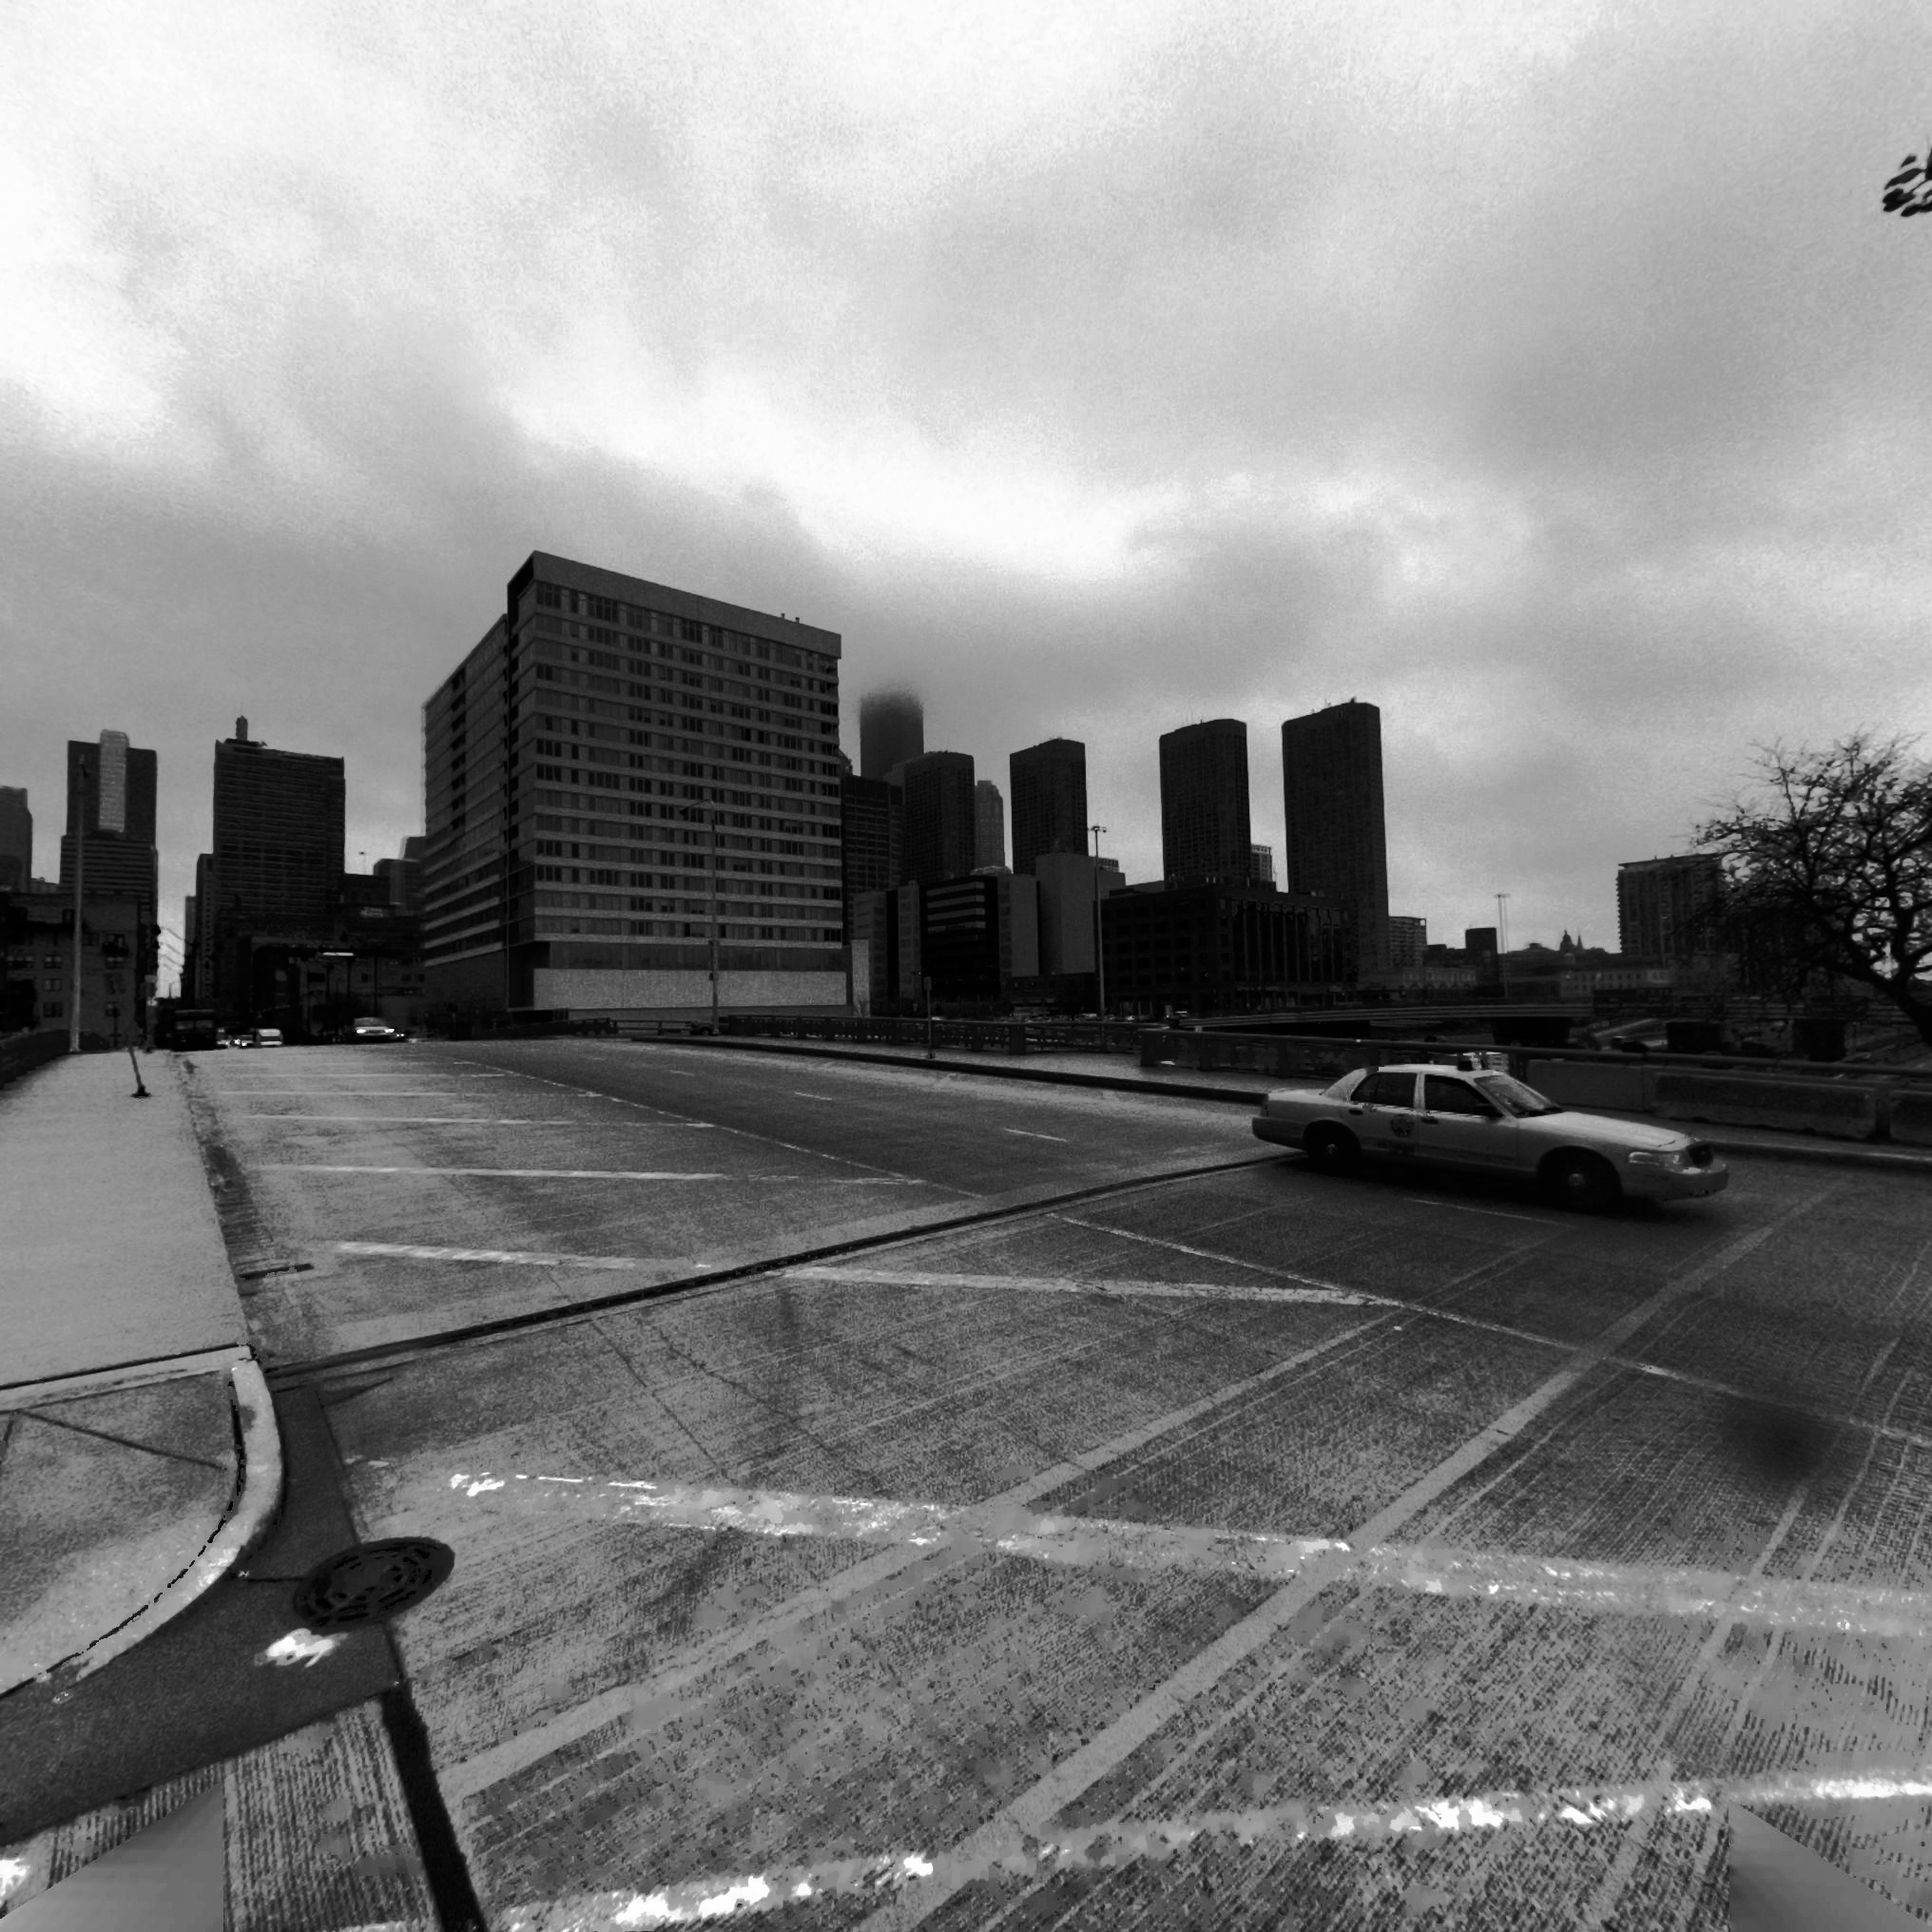
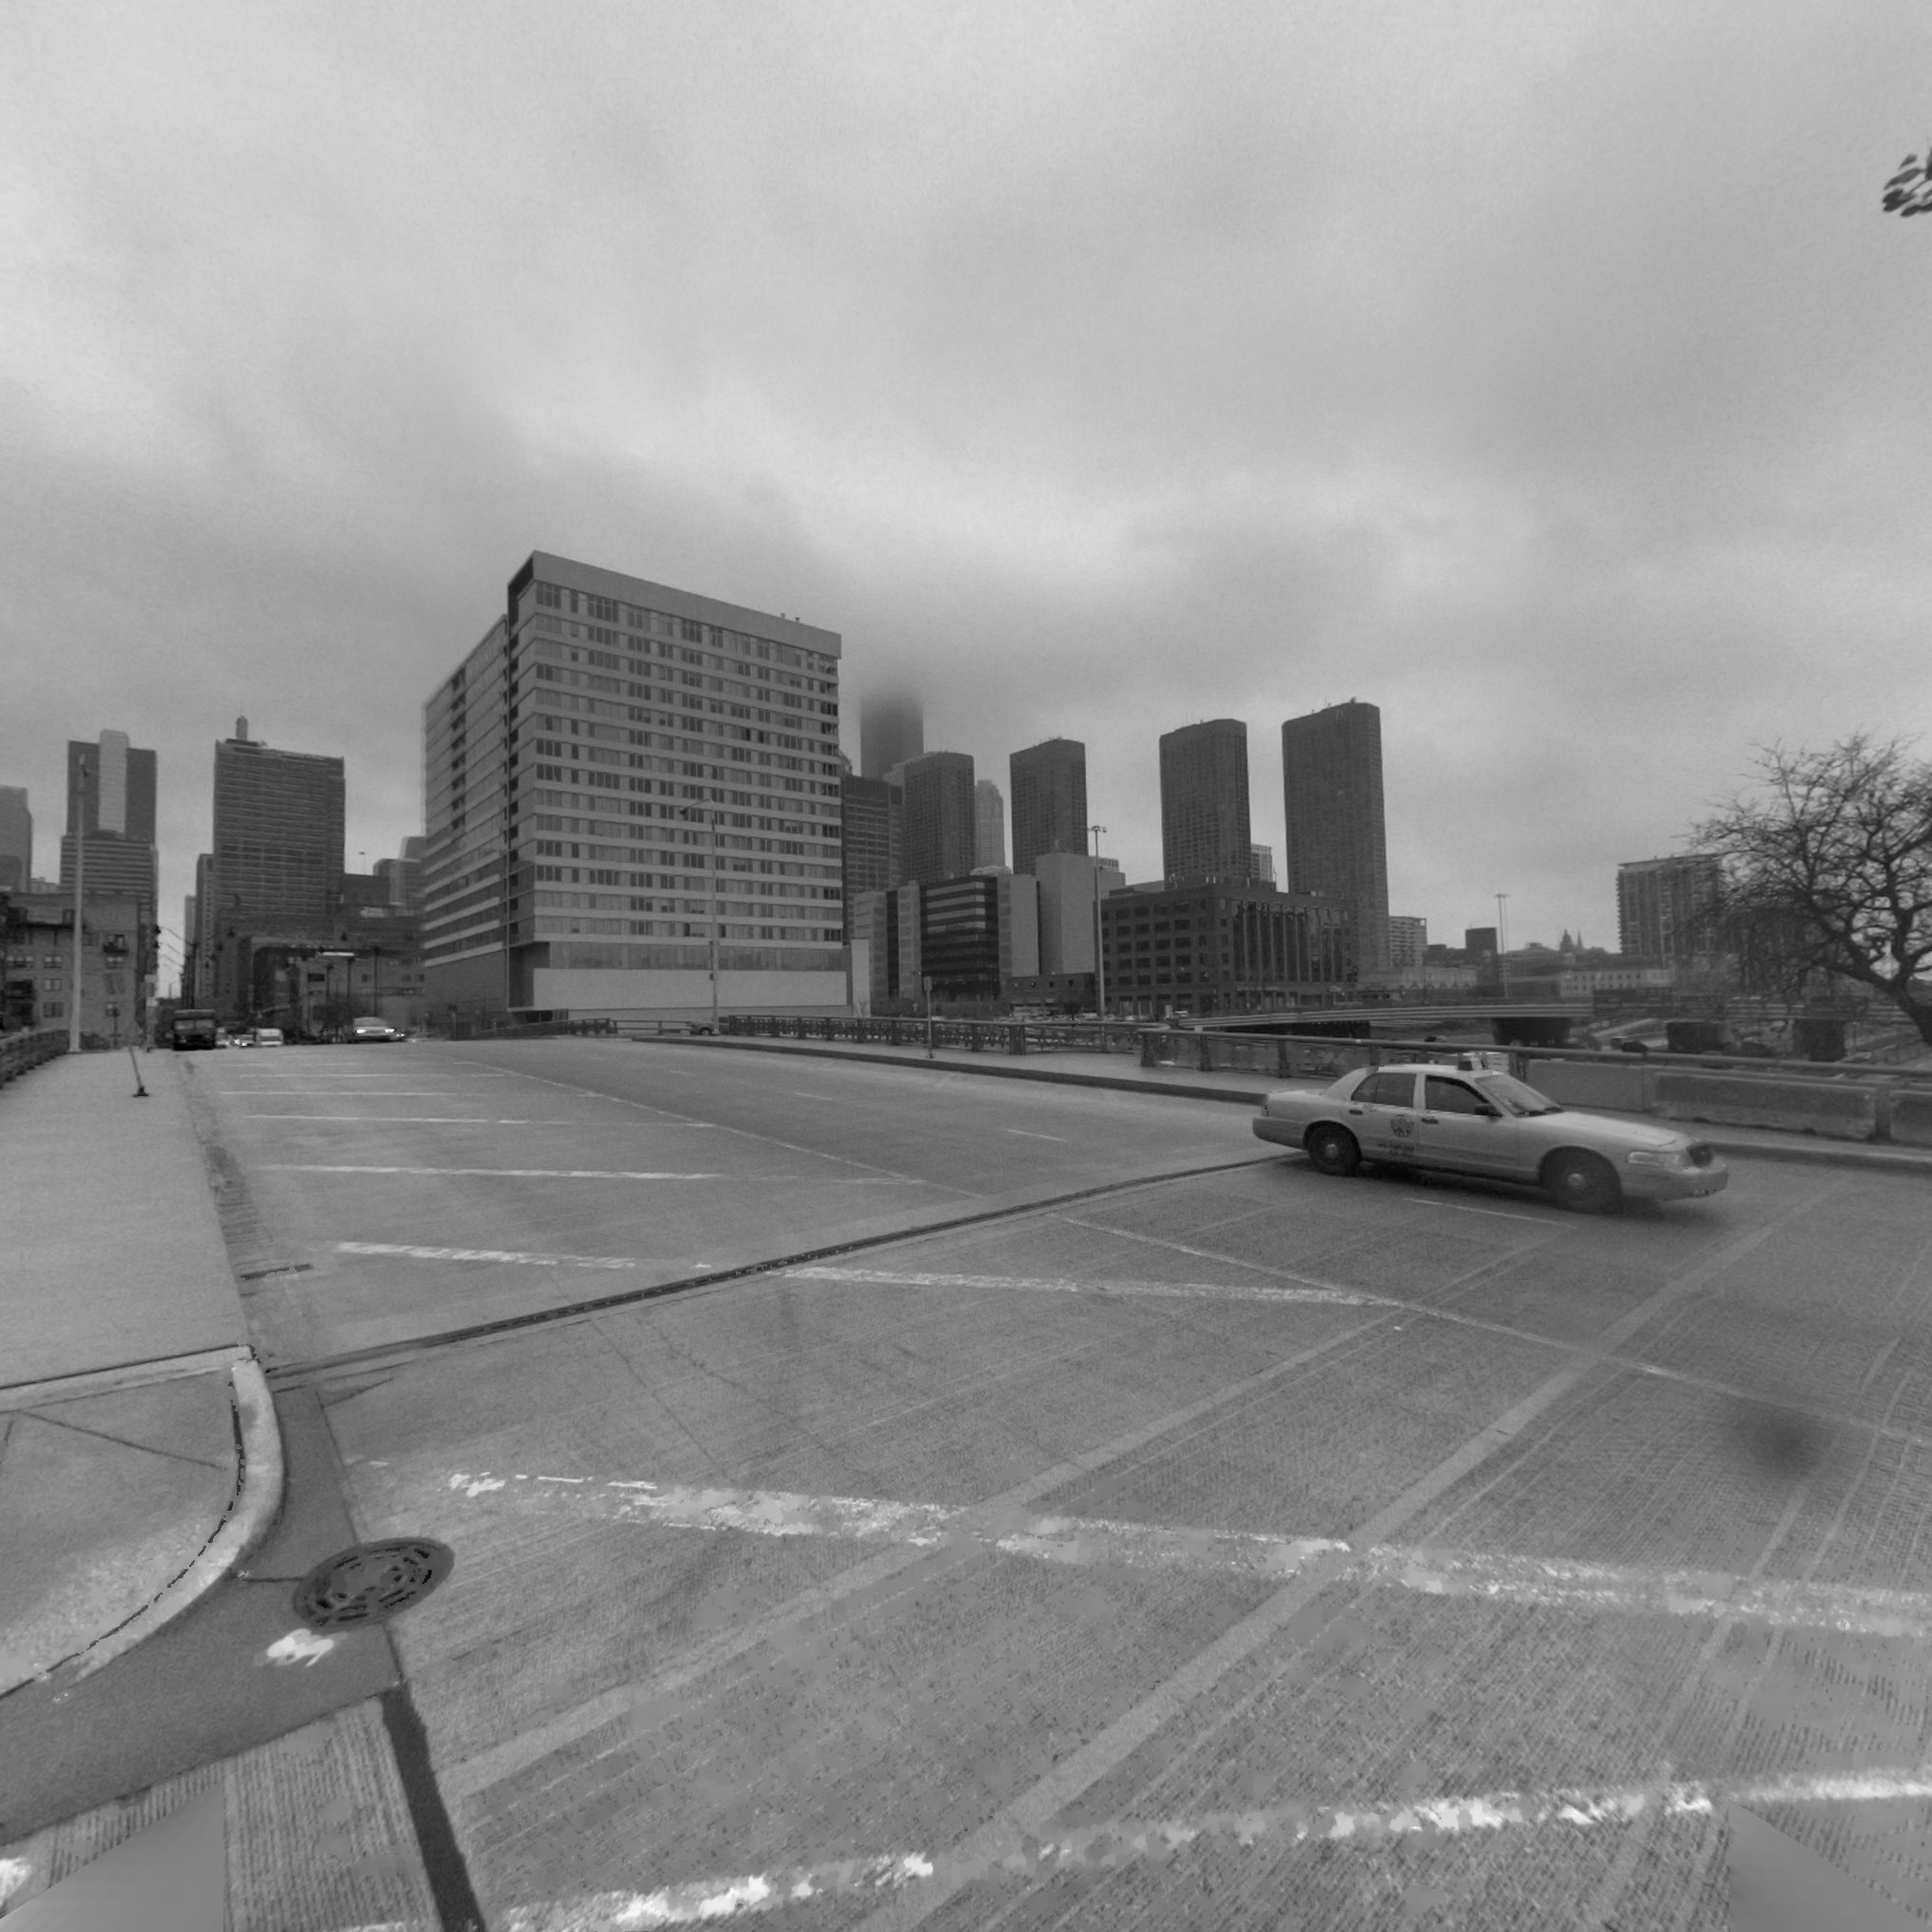
smear detection

diff --git a/img_process.py b/img_process.py
@@ -2,6 +2,8 @@ from PIL import Image
 import cv2
 import numpy as np
 import os
+import sys
+import shutil
 
 def greyscale(img_file):
     img = Image.open(img_file).convert('LA')
@@ -32,17 +34,98 @@ def histogram_equalization(img_file):
     cv2.imwrite( out_path, img_output );
     return out_path
 
+def blur(img_file):
+    img = cv2.imread(img_file)
+    blur_img = cv2.GaussianBlur(img,(21,21),0)
+    out_path = './output/blur.png'
+    cv2.imwrite( out_path, blur_img )
+    return out_path
+
+def threshold(img_file):
+    img = cv2.imread(img_file)
+    threshold_img = cv2.threshold(img, 127, 255, cv2.THRESH_BINARY)[1]
+    out_path = './output/threshold.png'
+    cv2.imwrite( out_path, threshold_img )
+    return out_path
+
 def image_mean(dir):
     img_paths = [];
     for image in os.listdir(dir):
+        if (image == '.DS_Store'): continue
         img_paths.append(os.path.join(dir,image))
 
     avg_img = cv2.imread(img_paths[0]) * (1/len(img_paths))
     for image in img_paths[1:]:
         avg_img = cv2.add(avg_img, cv2.imread(image) * (1/len(img_paths)))
-    out_path = './output/avg_img.png'
-    cv2.imwrite( out_path, avg_img )
+    return avg_img
+
+def pre_process(dir):
+    img_paths = [];
+    for image in os.listdir(dir):
+        if (image == '.DS_Store'): continue
+        img_paths.append(os.path.join(dir,image))
+
+    # CREATE PARENT DIRECTORY FOR PRE-PROCESSED IMAGES
+    out_path = './pre_processed_images/'
+    if os.path.exists(out_path):
+        shutil.rmtree(out_path)
+    os.mkdir(out_path)
+
+    # SORT
+    img_paths.sort()
+
+    # CREATE DIRECTORIES FOR BINS
+    total_num_imgs = len(img_paths)
+    num_imgs_per_bin = 100
+    num_bins = int(total_num_imgs / num_imgs_per_bin)
+    curr_image_index = 0
+
+    dir_tokens = dir.split("/")
+    dir_name = dir_tokens[-2]
+    for i in range(num_bins):
+        bin_path = out_path + dir_name + "_" + "bin_" + str(i+1) + "/"
+        os.mkdir(bin_path)
+        curr_num_imgs = 0
+        while (curr_num_imgs < num_imgs_per_bin or (i == num_bins-1 and curr_image_index < len(img_paths))):
+            img = cv2.imread(img_paths[curr_image_index])
+            # HIST EQ
+            img_yuv = cv2.cvtColor(img, cv2.COLOR_BGR2YUV)
+            img_yuv[:,:,0] = cv2.equalizeHist(img_yuv[:,:,0])
+            hist_output = cv2.cvtColor(img_yuv, cv2.COLOR_YUV2BGR)
+            # GREYSCALE
+            greyscale_output = cv2.cvtColor(hist_output, cv2.COLOR_BGR2GRAY)
+            # GAUSISAN BLUR
+            blur_output = cv2.GaussianBlur(greyscale_output,(21,21),0)
+            # ADAPTIVE THRESHOLD
+            adaptive_threshold = cv2.adaptiveThreshold(blur_output, 255, cv2.ADAPTIVE_THRESH_MEAN_C, cv2.THRESH_BINARY, 105, 10)
+            # SAVE
+            cv2.imwrite( bin_path + img_paths[curr_image_index].split("/")[1], adaptive_threshold )
+
+            curr_num_imgs+=1
+            curr_image_index+=1
     return out_path
+
+def process(dir):
+    out_path = './processed_output/'
+    if os.path.exists(out_path):
+        shutil.rmtree(out_path)
+    os.mkdir(out_path)
+
+    pre_process_paths = []
+    process_paths = []
+    for subdir in os.listdir(dir):
+        if (subdir == '.DS_Store'): continue
+        path = os.path.join(dir,subdir)
+        pre_process_paths.append(path + "/")
+        process_path = out_path + path.split("/")[-1] + "/"
+        process_paths.append(process_path)
+        os.mkdir(process_path)
+
+    for i in range(len(pre_process_paths)):
+        dir = pre_process_paths[i]
+        avg_img = image_mean(dir)
+        threshold_img = cv2.threshold(avg_img, 127, 255, cv2.THRESH_BINARY)[1]
+        cv2.imwrite( process_paths[i] + 'final_mask.png', threshold_img )
 
 def blur_detection(img_file):
     im = cv2.imread(img_file, cv2.IMREAD_GRAYSCALE)
@@ -54,31 +137,22 @@ def blur_detection(img_file):
     # # Filter by Area.
     params.filterByArea = True
     params.minArea = 100
-    #
-    # # Filter by Circularity
-    # params.filterByCircularity = True
-    # params.minCircularity = 0.1
-    #
-    # # Filter by Convexity
-    # params.filterByConvexity = True
-    # params.minConvexity = 0.87
-    #
-    # # Filter by Inertia
-    # params.filterByInertia = True
-    # params.minInertiaRatio = 0.01
 
-    detector = cv2.SimpleBlobDetector_create()
+    detector = cv2.SimpleBlobDetector_create(params)
     keypoints = detector.detect(im)
     im_with_keypoints = cv2.drawKeypoints(im, keypoints, np.array([]), (0,0,255), cv2.DRAW_MATCHES_FLAGS_DRAW_RICH_KEYPOINTS)
     cv2.imwrite( "./output/keypoints.jpg", im_with_keypoints );
 
-# Pre-process: histeq, greyscale, increase contrast
-# Process: Average Images for Noise Removal
-# Process: Create Binary Mask (apply erosion and dilation to reduce further noise)
-# Todo: Erosion, Dilation, and Create Binary Mask
+# histogram_equalization('./test/393408722.jpg')
+# greyscale('./test/393408722.jpg')
+# blur('./test/393408722.jpg')
+# mean_img = image_mean('./test/')
+# cv2.imwrite( "./output/avg_img.png", mean_img );
 
-histeq_img = histogram_equalization('./test/393408722.jpg')
-greyscale_img = greyscale(histeq_img)
-image_mean('./test/')
-#contrast_img = contrast(greyscale_img)
-#blur_detection(greyscale_img)
+if __name__ == '__main__':
+    if (len(sys.argv) < 2):
+        print("Please supply a directory of images. Usage: python3 img_process.py [img_dir_path]")
+        exit(0)
+
+    pre_processed_images_path = pre_process(sys.argv[1])
+    process = process(pre_processed_images_path)
